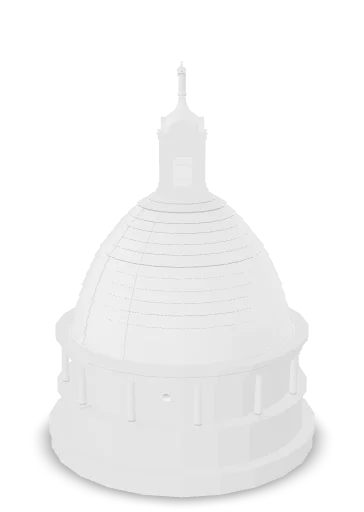
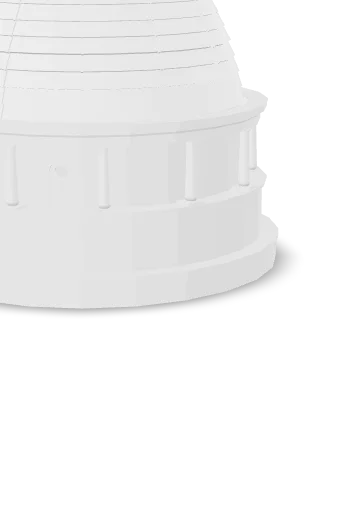
v2

diff --git a/annotation/index.html b/annotation/index.html
@@ -11,20 +11,74 @@
   </head>
   <body>
     <!-- <model-viewer> HTML element -->
-    <model-viewer bounds="tight" enable-pan src="final_appeal.glb" ar ar-modes="webxr scene-viewer quick-look" camera-controls environment-image="neutral" poster="poster.webp" shadow-intensity="1">
-      <button class="Hotspot" slot="hotspot-1" data-position="-0.4698061187431753m 1.4160772883192156m 0.1772050794865535m" data-normal="-0.5856451578843817m 0.6745933144025761m -0.4493813627754551m" data-visibility-attribute="visible">
-          <div class="HotspotAnnotation">dome
-          </div>
-      </button><button class="Hotspot" slot="hotspot-2" data-position="-0.02595311972227397m 2.50691559561157m 0.029821419700020814m" data-normal="0.7228107563034639m -0.5546324606780663m 0.41222256626027615m" data-visibility-attribute="visible">
+    <model-viewer id="hotspot-camera-view-demo"  bounds="tight" enable-pan src="final_appeal.glb" ar ar-modes="scene-viewer webxr quick-look" camera-controls environment-image="neutral" poster="poster.webp" shadow-intensity="1">
+      <button class="Hotspot" slot="hotspot-1"
+              data-position="-0.019428623441282336m 2.54919551476961m 0.015040466088957878m"
+              data-normal="0m -1m 0m"
+
+              data-orbit="0m -1m 0m"
+              data-target="-0.019428623441282336m 2.54919551476961m 0.015040466088957878m"
+
+
+
+              data-visibility-attribute="visible"
+      >
           <div class="HotspotAnnotation">Bronze Tudor Crown</div>
-      </button><button class="Hotspot" slot="hotspot-3" data-position="-0.11724001366459566m 2.1137705079441136m -0.09377898186115752m" data-normal="0m 1m 0m" data-visibility-attribute="visible">
-          <div class="HotspotAnnotation">Granite Lantern</div>
-      </button><button class="Hotspot" slot="hotspot-4" data-position="-0.26953556442328563m -0.001468207970816593m -0.050521299151508776m" data-normal="0m -1m 2.220446049250313e-16m" data-visibility-attribute="visible">
-          <div class="HotspotAnnotation">Scottish Steelwork</div>
-      </button><button class="Hotspot" slot="hotspot-5" data-position="0.5594102943732813m 1.227696148339245m 0.20852247729008289m" data-normal="-0.5287306490086524m 0.4956274694026683m -0.6890553768547173m" data-visibility-attribute="visible">
+      </button>
+        <button class="Hotspot" slot="hotspot-2" data-position="-0.7447473194972593m 0.5609446571192558m 0.17150995729337482m" data-normal="-0.9914448597534875m 0m 0.1305262045276267m"
+
+
+                data-orbit="-0.9914448597534875m 0m 0.1305262045276267m"
+                data-target="-0.7447473194972593m 0.5609446571192558m 0.17150995729337482m"
+
+
+
+
+                data-visibility-attribute="visible">
+          <div class="HotspotAnnotation">Victorian Buildings
+          </div>
+      </button>
+
+
+        <button class="Hotspot" slot="hotspot-3" data-position="0.23202511875832205m 1.355418012940024m 0.4931727603443486m" data-normal="-0.5856454166579043m 0.674592925147162m -0.44938160986959125m"
+
+                data-orbit="-0.5856454166579043m 0.674592925147162m -0.44938160986959125m"
+                data-target="0.23202511875832205m 1.355418012940024m 0.4931727603443486m"
+
+
+                data-visibility-attribute="visible">
           <div class="HotspotAnnotation">Symbol of the highest court</div>
-      </button><button class="Hotspot" slot="hotspot-6" data-position="0.3320901455962155m 0.5507450832486935m 0.6776658903480295m" data-normal="0.38268338173145044m 0m 0.9238795534844254m" data-visibility-attribute="visible">
-          <div class="HotspotAnnotation">Victorian Buildings </div>
+      </button>
+
+
+        <button class="Hotspot" slot="hotspot-4" data-position="0.26142564553167913m 1.3577775922443112m -0.46329419972357155m" data-normal="0.7352954429455449m 0.6777467163944912m 0m"
+
+                data-orbit="0.7352954429455449m 0.6777467163944912m 0.44938160986959125m"
+                data-target="0.26142564553167913m 1.3577775922443112m -0.46329419972357155m"
+
+
+                data-visibility-attribute="visible">
+          <div class="HotspotAnnotation">Dome</div>
+      </button>
+
+
+        <button class="Hotspot" slot="hotspot-5"
+                data-position="0.42848696234684047m -0.001468207970816593m 0.03186400137936831m"
+                data-normal="0m -1m 2.220446049250313e-16m"
+                data-orbit="0.3deg 143.1deg auto"
+                data-target="0.4m -0.0m 0.03一"
+
+
+
+
+                data-visibility-attribute="visible"
+
+
+        >
+          <div class="HotspotAnnotation">Scottish Steelwork</div>
+
+
+
       </button>
       <div class="progress-bar hide" slot="progress-bar">
           <div class="update-bar"></div>
@@ -39,5 +93,46 @@
     <script src="script.js"></script>
     <!-- Loads <model-viewer> for browsers: -->
     <script type="module" src="https://unpkg.com/@google/model-viewer/dist/model-viewer.min.js"></script>
+
+    <script type="module">
+  const modelViewer1 = document.querySelector("#hotspot-camera-view-demo");
+  const annotationClicked = (annotation) => {
+
+    let dataset = annotation.dataset;
+
+
+    modelViewer1.cameraTarget = dataset.target;
+    modelViewer1.cameraOrbit = dataset.orbit;
+
+    modelViewer1.fieldOfView = '5deg';
+  }
+
+  modelViewer1.querySelectorAll('button').forEach((hotspot) => {
+    console.log("hello hotspot", hotspot);
+    hotspot.addEventListener('click', () => annotationClicked(hotspot));
+  });
+
+
+
+  setInterval(function(){
+
+
+if (modelViewer1.cameraTarget!=null){
+  console.log("modelViewer1.cameraTarget "+modelViewer1.cameraTarget)
+  }
+
+if (modelViewer1.cameraOrbit!=null){
+  console.log("modelViewer1.cameraOrbit "+modelViewer1.cameraOrbit)
+  }
+
+
+  }, 1000)
+
+
+
+</script>
+
+
+
   </body>
 </html>

diff --git a/annotation/script.js b/annotation/script.js
@@ -8,7 +8,7 @@ const onProgress = (event) => {
   } else {
     progressBar.classList.remove('hide');
     if (event.detail.totalProgress === 0) {
-      event.target.querySelector('.center-pre-prompt').classList.add('hide');
+      console.log("hihi")
     }
   }
 };
